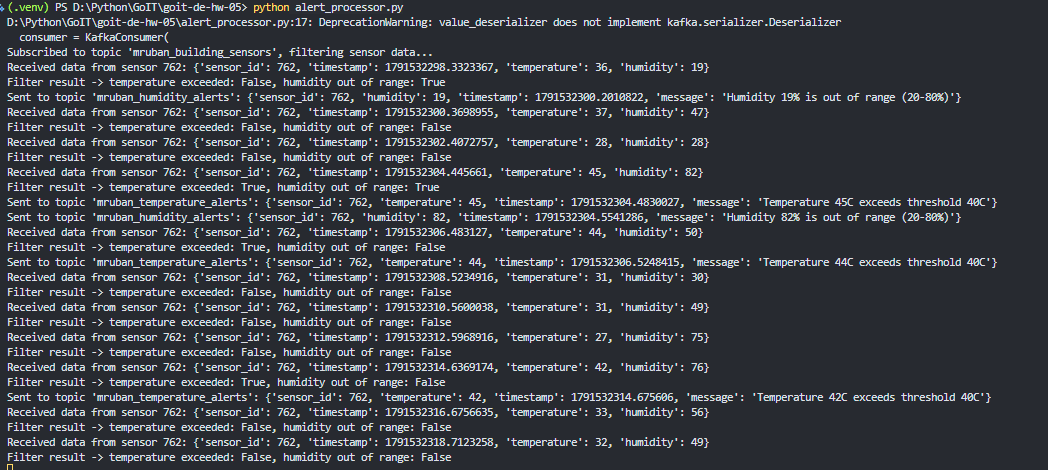
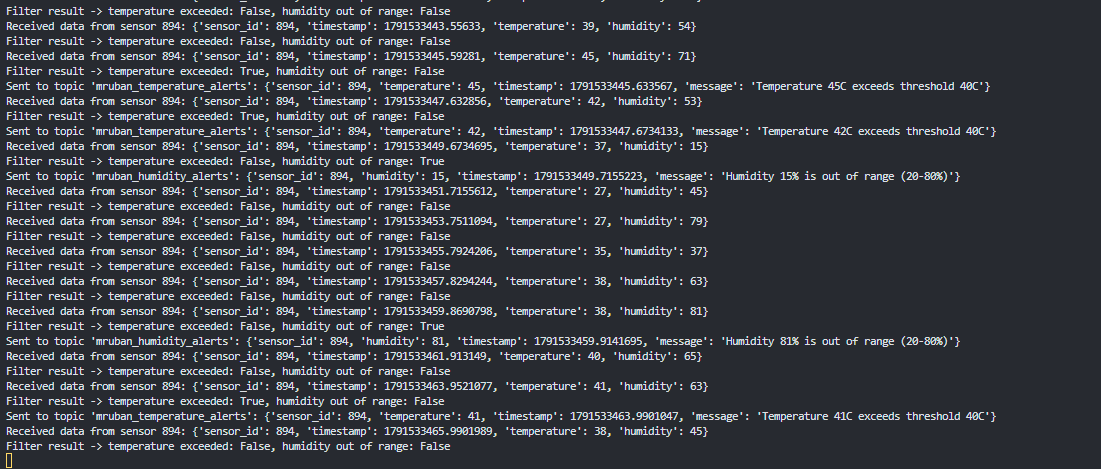
Refactor Kafka serialization logic and add JSON and String serializers

diff --git a/alert_processor.py b/alert_processor.py
@@ -1,4 +1,3 @@
-import json
 import time
 
 from kafka import KafkaConsumer, KafkaProducer
@@ -9,6 +8,7 @@ from configs import (
     TEMPERATURE_ALERTS_TOPIC,
     HUMIDITY_ALERTS_TOPIC,
 )
+from serializers import JSONDeserializer, JSONSerializer, StringSerializer
 
 TEMPERATURE_THRESHOLD = 40
 HUMIDITY_LOWER_THRESHOLD = 20
@@ -20,7 +20,7 @@ consumer = KafkaConsumer(
     sasl_mechanism=kafka_config["sasl_mechanism"],
     sasl_plain_username=kafka_config["username"],
     sasl_plain_password=kafka_config["password"],
-    value_deserializer=lambda v: json.loads(v.decode("utf-8")),
+    value_deserializer=JSONDeserializer(),
     auto_offset_reset="earliest",
     enable_auto_commit=True,
     group_id="alert_processor_group",
@@ -32,8 +32,8 @@ producer = KafkaProducer(
     sasl_mechanism=kafka_config["sasl_mechanism"],
     sasl_plain_username=kafka_config["username"],
     sasl_plain_password=kafka_config["password"],
-    value_serializer=lambda v: json.dumps(v).encode("utf-8"),
-    key_serializer=lambda v: str(v).encode("utf-8"),
+    value_serializer=JSONSerializer(),
+    key_serializer=StringSerializer(),
 )
 
 consumer.subscribe([BUILDING_SENSORS_TOPIC])

diff --git a/consumer.py b/consumer.py
@@ -1,8 +1,7 @@
-import json
-
 from kafka import KafkaConsumer
 
 from configs import kafka_config, TEMPERATURE_ALERTS_TOPIC, HUMIDITY_ALERTS_TOPIC
+from serializers import JSONDeserializer
 
 # Створення Kafka Consumer
 consumer = KafkaConsumer(
@@ -11,7 +10,7 @@ consumer = KafkaConsumer(
     sasl_mechanism=kafka_config["sasl_mechanism"],
     sasl_plain_username=kafka_config["username"],
     sasl_plain_password=kafka_config["password"],
-    value_deserializer=lambda v: json.loads(v.decode("utf-8")),
+    value_deserializer=JSONDeserializer(),
     auto_offset_reset="earliest",  # Зчитування повідомлень з початку
     enable_auto_commit=True,  # Автоматичне підтвердження зчитаних повідомлень
     group_id="alerts_display_group",  # Ідентифікатор групи споживачів

diff --git a/producer.py b/producer.py
@@ -1,10 +1,10 @@
-import json
 import random
 import time
 
 from kafka import KafkaProducer
 
 from configs import kafka_config, BUILDING_SENSORS_TOPIC
+from serializers import JSONSerializer, StringSerializer
 
 # Створення Kafka Producer
 producer = KafkaProducer(
@@ -13,8 +13,8 @@ producer = KafkaProducer(
     sasl_mechanism=kafka_config["sasl_mechanism"],
     sasl_plain_username=kafka_config["username"],
     sasl_plain_password=kafka_config["password"],
-    value_serializer=lambda v: json.dumps(v).encode("utf-8"),
-    key_serializer=lambda v: str(v).encode("utf-8"),
+    value_serializer=JSONSerializer(),
+    key_serializer=StringSerializer(),
 )
 
 # Один запуск скрипту імітує один датчик з постійним ID на час роботи

diff --git a/serializers.py b/serializers.py
@@ -1,0 +1,19 @@
+import json
+from typing import Any, List, Tuple
+
+from kafka.serializer import Deserializer, Serializer
+
+
+class JSONSerializer(Serializer):
+    def serialize(self, topic: str, headers: List[Tuple[str, bytes]], data: Any) -> bytes:
+        return json.dumps(data).encode("utf-8")
+
+
+class JSONDeserializer(Deserializer):
+    def deserialize(self, topic: str, headers: List[Tuple[str, bytes]], data: bytes) -> Any:
+        return json.loads(data.decode("utf-8"))
+
+
+class StringSerializer(Serializer):
+    def serialize(self, topic: str, headers: List[Tuple[str, bytes]], data: Any) -> bytes:
+        return str(data).encode("utf-8")
